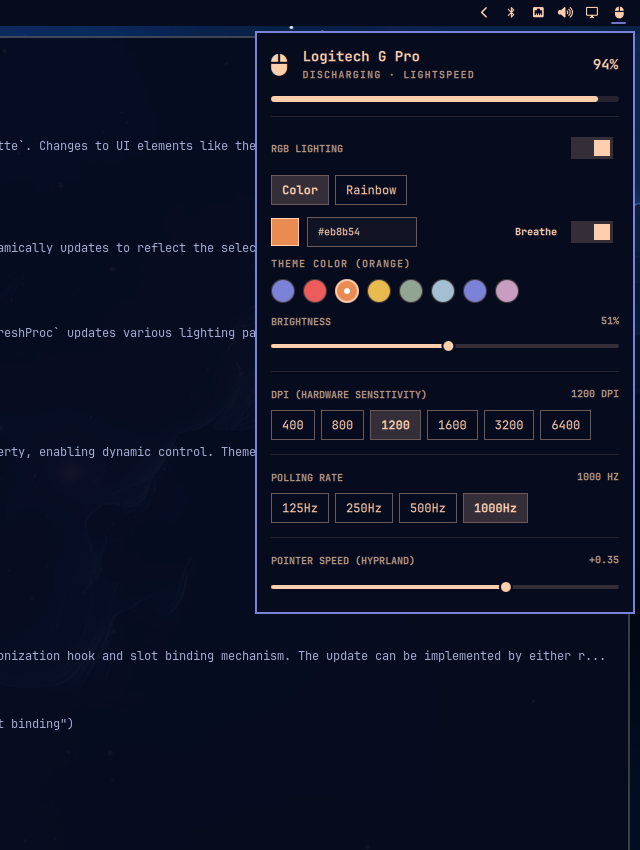
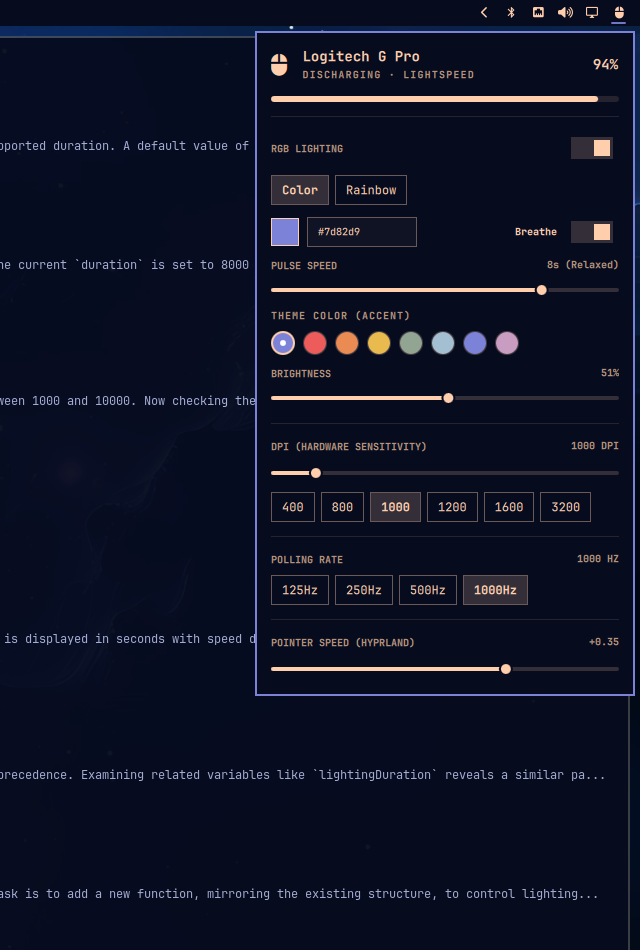
feat: add pulse/cycle speed slider and continuous DPI slider with jump presets

diff --git a/Panel.qml b/Panel.qml
@@ -15,8 +15,8 @@ Panel {
   property string deviceName: "Logitech G Pro"
   property int battery: -1
   property string batteryStatus: "Unknown"
-  property int activeDpi: 1200
-  property var dpis: [400, 800, 1200, 1600, 3200, 6400]
+  property int activeDpi: 1000
+  property var dpis: [400, 800, 1000, 1200, 1600, 3200]
   property int activeRate: 1000
   property var rates: [125, 250, 500, 1000]
   property real hyprSensitivity: 0.35
@@ -28,6 +28,7 @@ Panel {
   property string customColor: "#7d82d9"
   property string themeSlot: "accent"
   property bool breatheEnabled: false
+  property int lightingDuration: 8000
   property int lightingBrightness: 255
   property var themePalette: [
     { slot: "accent", color: "#7d82d9" },
@@ -90,7 +91,7 @@ Panel {
   }
 
   function setDpi(dpi) {
-    var val = parseInt(dpi, 10)
+    var val = Math.round(Number(dpi))
     root.activeDpi = val
     Quickshell.execDetached([root.mouseControlBin, "set-dpi", String(val)])
   }
@@ -131,6 +132,11 @@ Panel {
     Quickshell.execDetached([root.mouseControlBin, "set-lighting-breathe", breathe ? "1" : "0"])
   }
 
+  function setLightingDuration(dur) {
+    root.lightingDuration = dur
+    Quickshell.execDetached([root.mouseControlBin, "set-lighting-duration", String(dur)])
+  }
+
   function setLightingBrightness(bgt) {
     root.lightingBrightness = bgt
     Quickshell.execDetached([root.mouseControlBin, "set-lighting-brightness", String(Math.round(bgt))])
@@ -148,7 +154,7 @@ Panel {
           if (data.name) root.deviceName = data.name
           if (data.battery !== undefined) root.battery = data.battery
           if (data.battery_status) root.batteryStatus = data.battery_status
-          if (data.active_dpi) root.activeDpi = data.active_dpi
+          if (data.active_dpi && !dpiSlider.dragging) root.activeDpi = data.active_dpi
           if (data.active_rate) root.activeRate = data.active_rate
           if (Array.isArray(data.dpis) && data.dpis.length > 0) root.dpis = data.dpis
           if (Array.isArray(data.rates) && data.rates.length > 0) root.rates = data.rates
@@ -161,6 +167,9 @@ Panel {
             if (data.lighting.color) root.customColor = data.lighting.color
             if (data.lighting.theme_slot !== undefined) root.themeSlot = data.lighting.theme_slot
             root.breatheEnabled = data.lighting.breathing === true
+            if (data.lighting.duration !== undefined && (!durSlider || !durSlider.dragging) && (!cycleSlider || !cycleSlider.dragging)) {
+              root.lightingDuration = data.lighting.duration
+            }
             if (data.lighting.brightness !== undefined && !lightBrightnessSlider.dragging) {
               root.lightingBrightness = data.lighting.brightness
             }
@@ -442,6 +451,54 @@ Panel {
                   }
                 }
 
+                // Pulse Speed Slider (visible when Breathe is enabled)
+                Column {
+                  width: parent.width
+                  spacing: Style.space(6)
+                  visible: root.breatheEnabled
+
+                  Item {
+                    width: parent.width
+                    implicitHeight: Math.max(durHeader.implicitHeight, durVal.implicitHeight)
+
+                    PanelSectionHeader {
+                      id: durHeader
+                      text: "PULSE SPEED"
+                      foreground: root.barForeground
+                      fontFamily: root.fontFamily
+                      anchors.left: parent.left
+                      anchors.verticalCenter: parent.verticalCenter
+                    }
+
+                    Text {
+                      id: durVal
+                      text: {
+                        var s = durSlider.dragging ? durSlider.liveValue : Math.round(root.lightingDuration / 1000)
+                        return s + "s (" + (s <= 3 ? "Fast" : (s <= 6 ? "Normal" : (s <= 8 ? "Relaxed" : "Slow"))) + ")"
+                      }
+                      color: Qt.darker(root.barForeground, 1.4)
+                      font.family: root.fontFamily
+                      font.pixelSize: Style.font.caption
+                      font.bold: true
+                      anchors.right: parent.right
+                      anchors.verticalCenter: parent.verticalCenter
+                    }
+                  }
+
+                  PanelSlider {
+                    id: durSlider
+                    width: parent.width
+                    bar: root.bar
+                    minimum: 1
+                    maximum: 10
+                    step: 1
+                    value: Math.round(root.lightingDuration / 1000)
+                    onReleased: function(v) {
+                      root.setLightingDuration(Math.round(v) * 1000)
+                    }
+                  }
+                }
+
                 // Theme Slot Subtitle & Palette Chips
                 Text {
                   text: root.themeSlot ? ("THEME COLOR (" + root.themeSlot.toUpperCase() + ")") : "THEME PALETTE"
@@ -488,10 +545,51 @@ Panel {
               }
 
               // Mode 2: Rainbow Cycle
-              Item {
+              Column {
                 width: parent.width
-                implicitHeight: rainbowLabel.implicitHeight
+                spacing: Style.space(6)
                 visible: root.lightingMode === "rainbow"
+
+                Item {
+                  width: parent.width
+                  implicitHeight: Math.max(cycleHeader.implicitHeight, cycleVal.implicitHeight)
+
+                  PanelSectionHeader {
+                    id: cycleHeader
+                    text: "CYCLE SPEED"
+                    foreground: root.barForeground
+                    fontFamily: root.fontFamily
+                    anchors.left: parent.left
+                    anchors.verticalCenter: parent.verticalCenter
+                  }
+
+                  Text {
+                    id: cycleVal
+                    text: {
+                      var s = cycleSlider.dragging ? cycleSlider.liveValue : Math.round(root.lightingDuration / 1000)
+                      return s + "s (" + (s <= 3 ? "Fast" : (s <= 6 ? "Normal" : (s <= 8 ? "Relaxed" : "Slow"))) + ")"
+                    }
+                    color: Qt.darker(root.barForeground, 1.4)
+                    font.family: root.fontFamily
+                    font.pixelSize: Style.font.caption
+                    font.bold: true
+                    anchors.right: parent.right
+                    anchors.verticalCenter: parent.verticalCenter
+                  }
+                }
+
+                PanelSlider {
+                  id: cycleSlider
+                  width: parent.width
+                  bar: root.bar
+                  minimum: 1
+                  maximum: 10
+                  step: 1
+                  value: Math.round(root.lightingDuration / 1000)
+                  onReleased: function(v) {
+                    root.setLightingDuration(Math.round(v) * 1000)
+                  }
+                }
 
                 Text {
                   id: rainbowLabel
@@ -572,13 +670,26 @@ Panel {
 
               Text {
                 id: dpiLabel
-                text: root.activeDpi + " DPI"
+                text: (dpiSlider.dragging ? dpiSlider.liveValue : root.activeDpi) + " DPI"
                 color: Qt.darker(root.barForeground, 1.4)
                 font.family: root.fontFamily
                 font.pixelSize: Style.font.caption
                 font.bold: true
                 anchors.right: parent.right
                 anchors.verticalCenter: parent.verticalCenter
+              }
+            }
+
+            PanelSlider {
+              id: dpiSlider
+              width: parent.width
+              bar: root.bar
+              minimum: 200
+              maximum: 6400
+              step: 50
+              value: root.activeDpi
+              onReleased: function(v) {
+                root.setDpi(v)
               }
             }
 

diff --git a/README.md b/README.md
@@ -17,7 +17,8 @@ A native, interactive **Omarchy shell** bar widget and control engine for Logite
   * Proportional smooth battery meter bar.
   * Right-click the bar icon to toggle inline battery percentage display on your status bar.
 * **🎯 Hardware DPI Sensitivity**:
-  * Instant 1-click switching between hardware DPI stages: **400**, **800**, **1200**, **1600**, **3200**, and **6400** DPI.
+  * Continuous hardware slider (`200` to `6400` DPI in 50 DPI steps) for granular precision tuning.
+  * Instant jump preset buttons: **400**, **800**, **1000**, **1200**, **1600**, and **3200** DPI.
   * Directly committed to the mouse's onboard memory profile.
 * **⚡ Polling Rate Switching**:
   * Switch hardware report rate on the fly: **125 Hz**, **250 Hz**, **500 Hz**, or **1000 Hz**.
@@ -30,8 +31,9 @@ A native, interactive **Omarchy shell** bar widget and control engine for Logite
     * Custom hex code input (`#RRGGBB`) with real-time swatch preview.
     * Clickable Omarchy theme color chips (`accent`, `red`, `orange`, `yellow`, `green`, `cyan`, `blue`, `magenta`).
     * **Dynamic Theme Slot Binding**: Selecting a theme chip binds the mouse to that color slot. Whenever you change Omarchy desktop themes (`omarchy theme set <theme>`), the mouse color automatically updates via Omarchy's native `theme-set.d` hook!
-    * **Breathe Effect**: Optional hardware-driven pulsing illumination.
-  * **Rainbow 360°**: Hardware-driven autonomous 360° spectrum wave cycle running directly inside the mouse MCU.
+    * **Breathe Effect**: Optional hardware-driven sinusoidal pulsing illumination.
+    * **Pulse Speed Slider**: Granular duration adjustment from `1s` (Fast) to `10s` (Slow), defaulted to a serene `8s` (Relaxed).
+  * **Rainbow 360°**: Hardware-driven autonomous 360° spectrum wave cycle running directly inside the mouse MCU, complete with cycle speed tuning (`1s` to `10s`).
   * **Brightness Slider**: 0% to 100% LED intensity control.
 * **🛡 Zero-Daemon Hardware Architecture**:
   * All lighting modes execute directly in the mouse's internal MCU.
@@ -121,6 +123,7 @@ omarchy-mouse-control set-lighting-toggle 1
 omarchy-mouse-control set-lighting-mode color             # color | rainbow | off
 omarchy-mouse-control set-lighting-color "#eb8b54" orange # hex [slot_name]
 omarchy-mouse-control set-lighting-breathe 1              # 1 = breathe, 0 = solid
+omarchy-mouse-control set-lighting-duration 8              # 1 to 10 seconds (or ms)
 omarchy-mouse-control set-lighting-brightness 200         # 0 to 255
 omarchy-mouse-control sync-theme                          # Synchronize active theme slot
 ```
